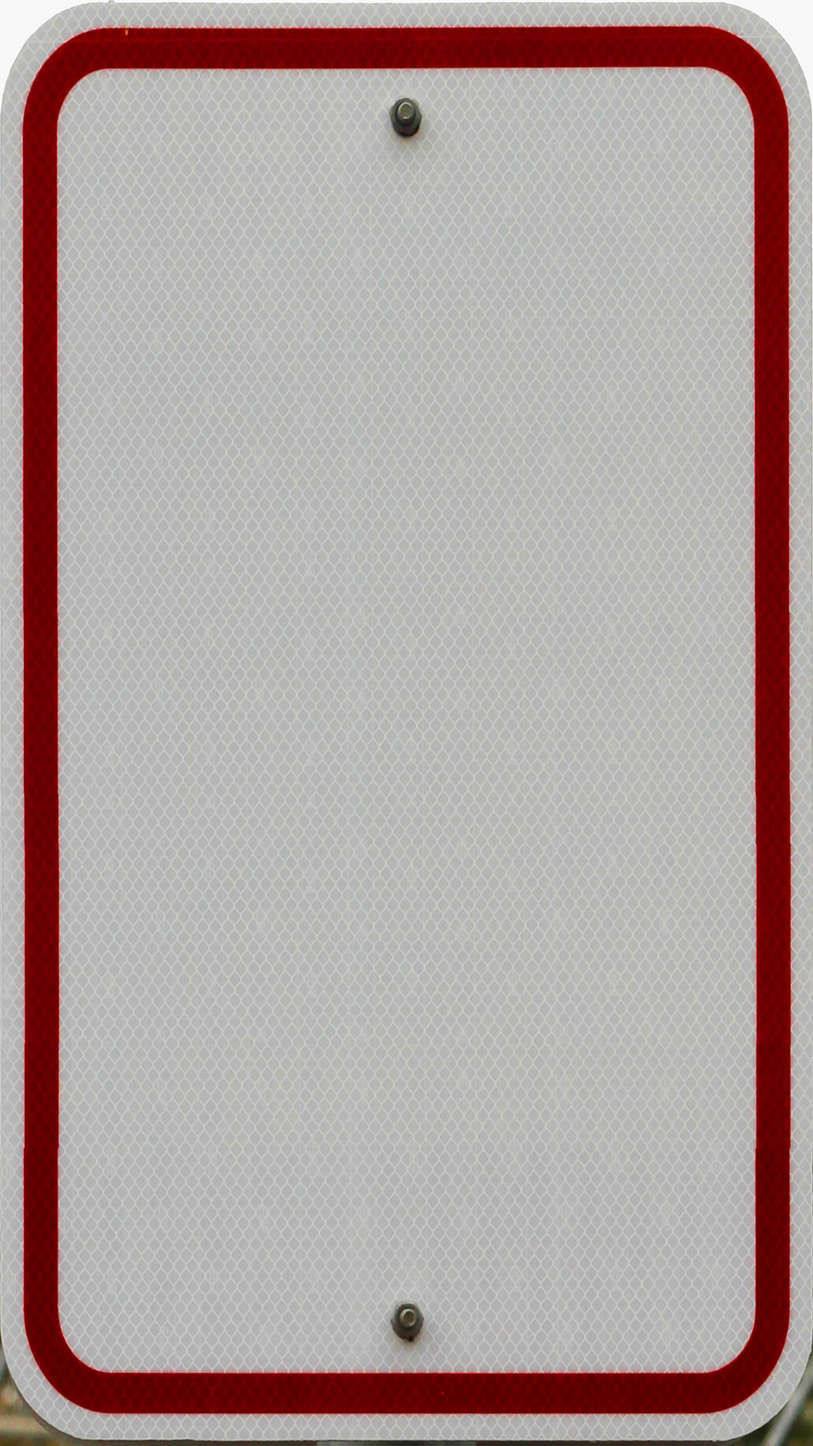
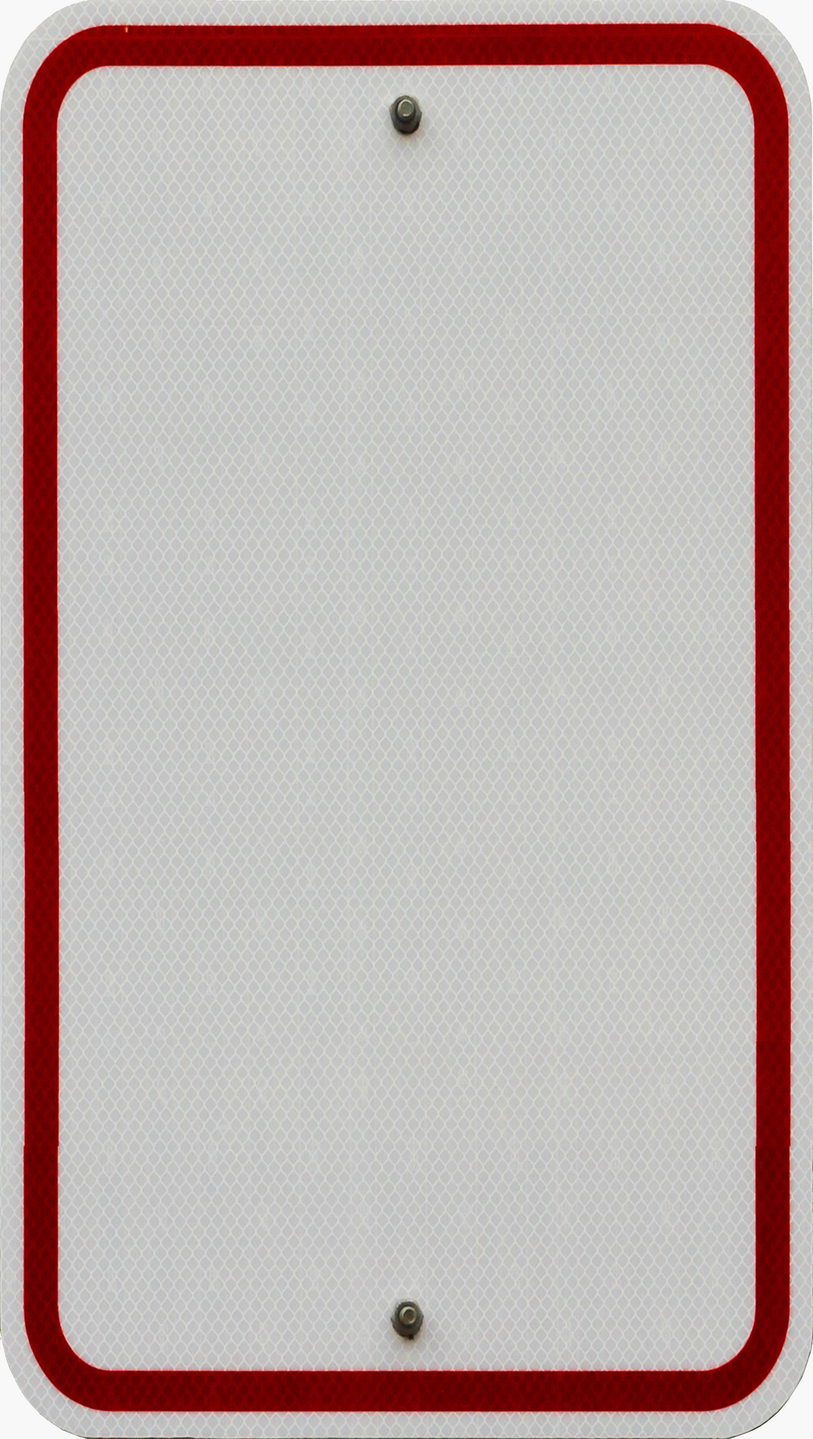
lightened sign

diff --git a/app/assets/stylesheets/application.css b/app/assets/stylesheets/application.css
@@ -19,7 +19,7 @@
 #siteform {
 justify-content: center;
 text-align: center;
-color: #530000;
+color: #730001;
 
   padding: 16% 0px 0px 0px;
 }
@@ -65,7 +65,7 @@ color: #530000;
 }
 
 #map {
-	border: 5px solid #530000;
+	border: 5px solid #730001;
 	border-radius: 10px;
 	width: 300px;
 	height: 60vh;
@@ -74,7 +74,7 @@ color: #530000;
 }
 
 #signimage{
-	background-image: url('signbackgroundimage.png');
+	background-image: url('signbackgroundimage2.png');
   background-repeat: no-repeat;
   background-size: 100% 100%;
 	font-family: 'Avenir Next LT Pro Heavy Condensed',verdana, arial, helvetica, sans-serif !important;
@@ -85,7 +85,7 @@ color: #530000;
 }
 
 #map {
-	border: 5px solid #530000;
+	border: 5px solid #730001;
 	border-radius: 10px;
 	width: 300px;
 	height: 47vh;
